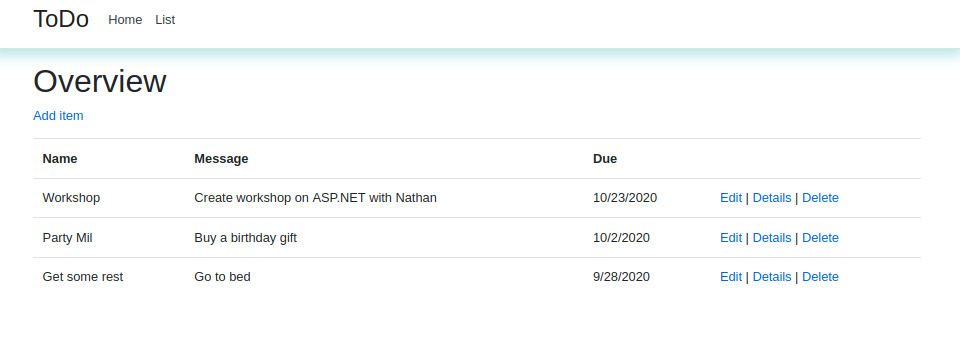
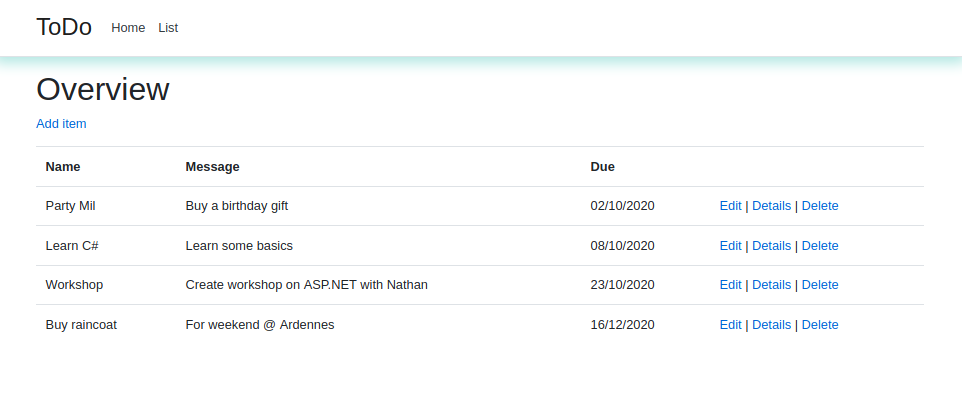
sorted list

diff --git a/ToDo/Pages/Items/Index.cshtml.cs b/ToDo/Pages/Items/Index.cshtml.cs
@@ -1,5 +1,7 @@
 using System;
 using System.Collections.Generic;
+using System.Collections.Immutable;
+using System.Globalization;
 using System.Linq;
 using System.Threading.Tasks;
 using Microsoft.AspNetCore.Mvc;
@@ -24,6 +26,7 @@ namespace ToDo.Pages.Items
         public async Task OnGetAsync()
         {
             Item = await _context.Items.ToListAsync();
+            Item = Item.OrderBy(day => day.Due).ToList();
         }
     }
 }

diff --git a/ToDo/Models/Item.cs b/ToDo/Models/Item.cs
@@ -9,7 +9,7 @@ namespace ToDo.Models
        public int Id { get; set; }
        public string Name { get; set; }
        public string Message { get; set; }
-       [DataType((DataType.Date))]
+       [DisplayFormat(ApplyFormatInEditMode = true, DataFormatString = "{0:dd/MM/yyyy}")]
        public DateTime Due { get; set; }
     }
 }
